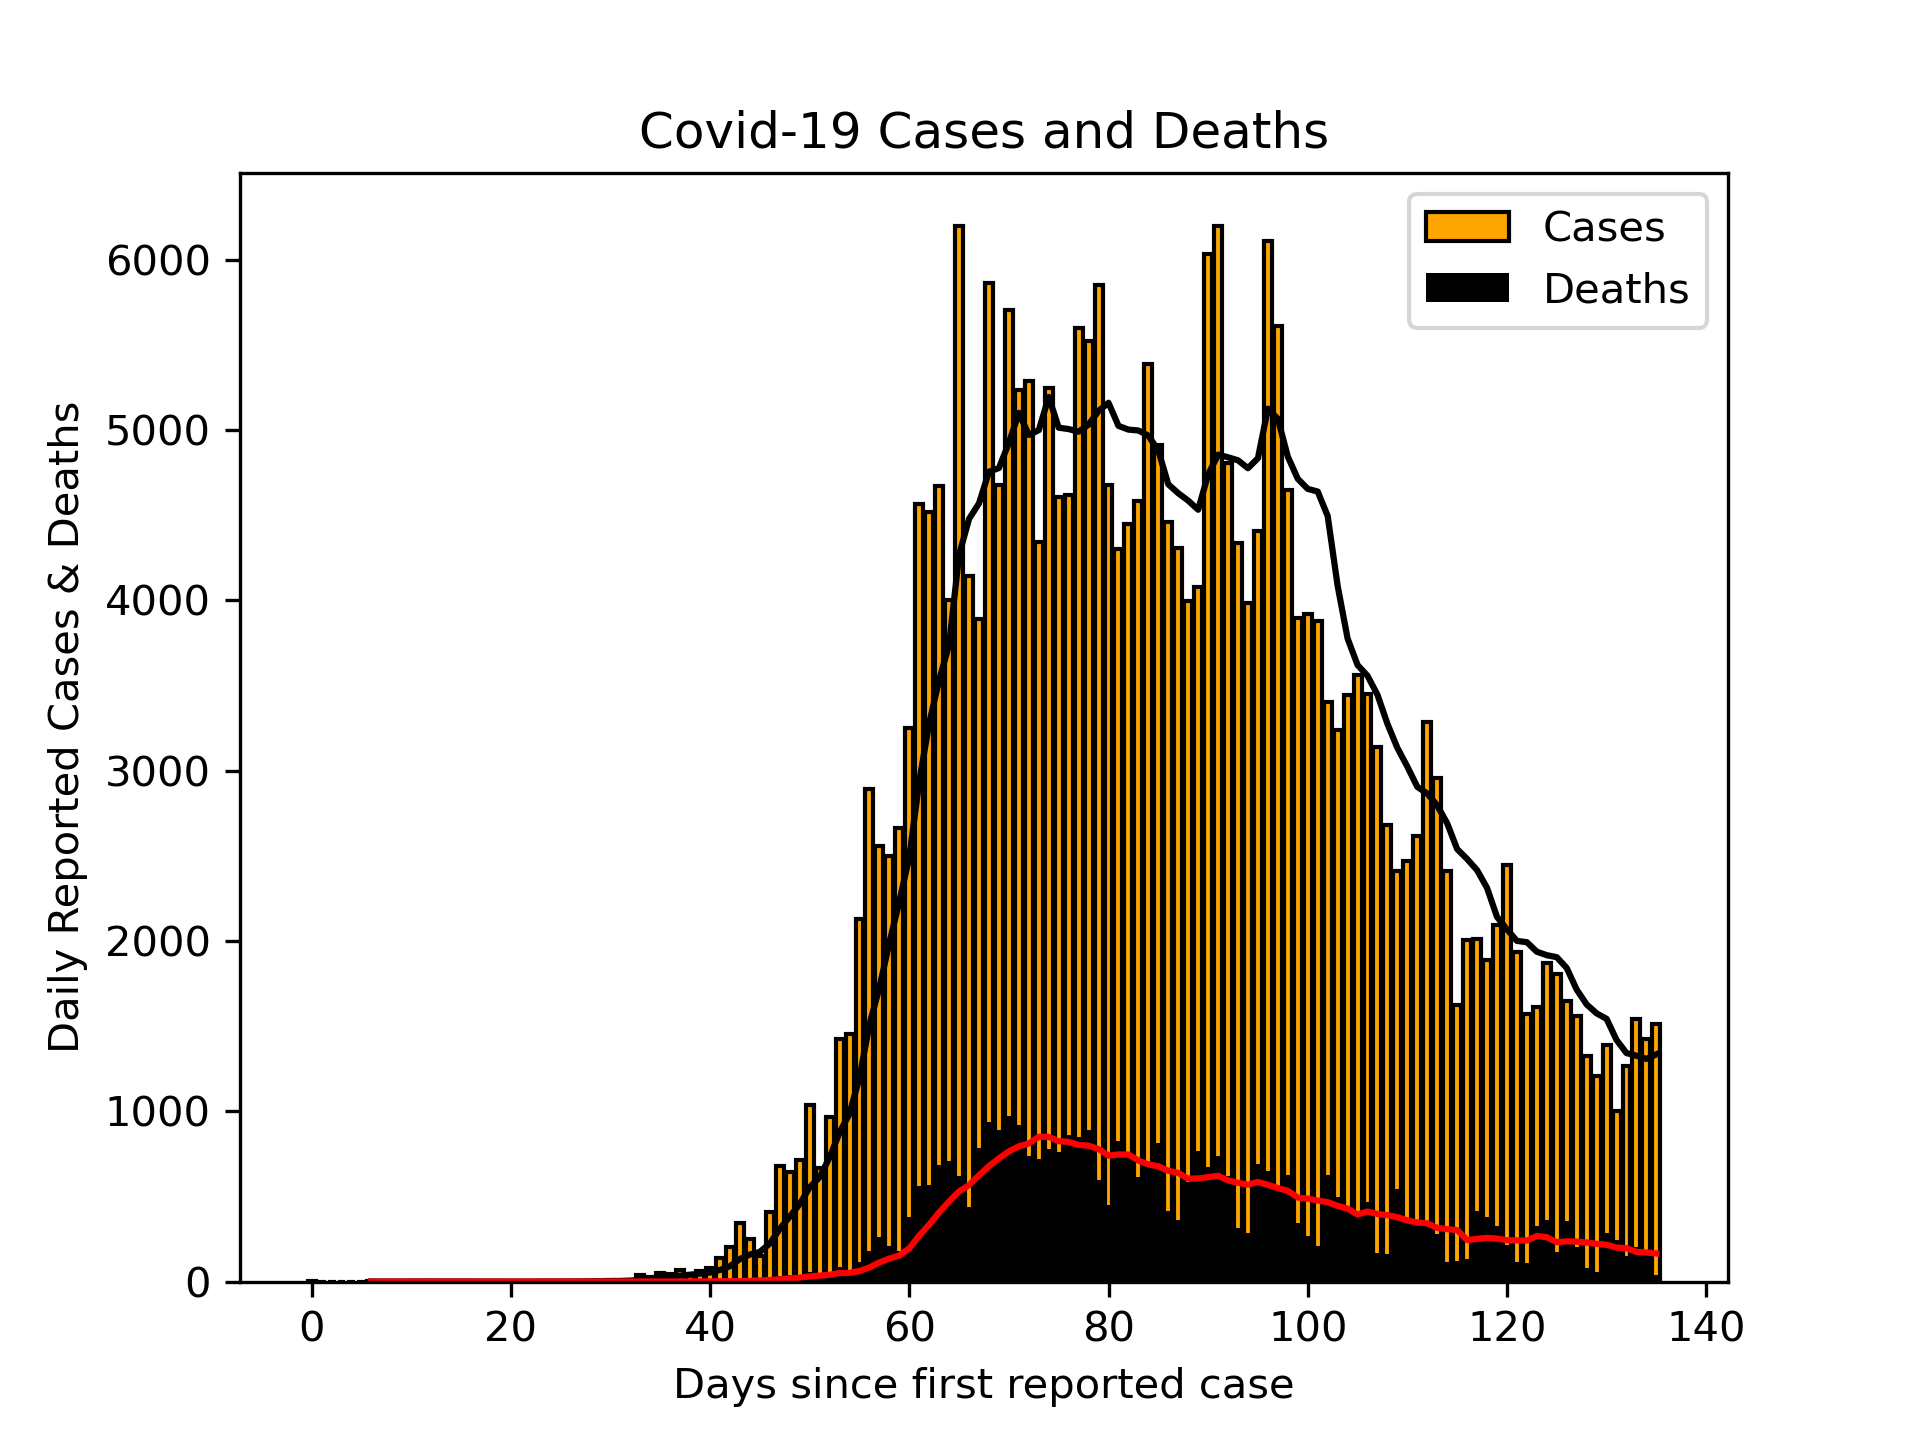
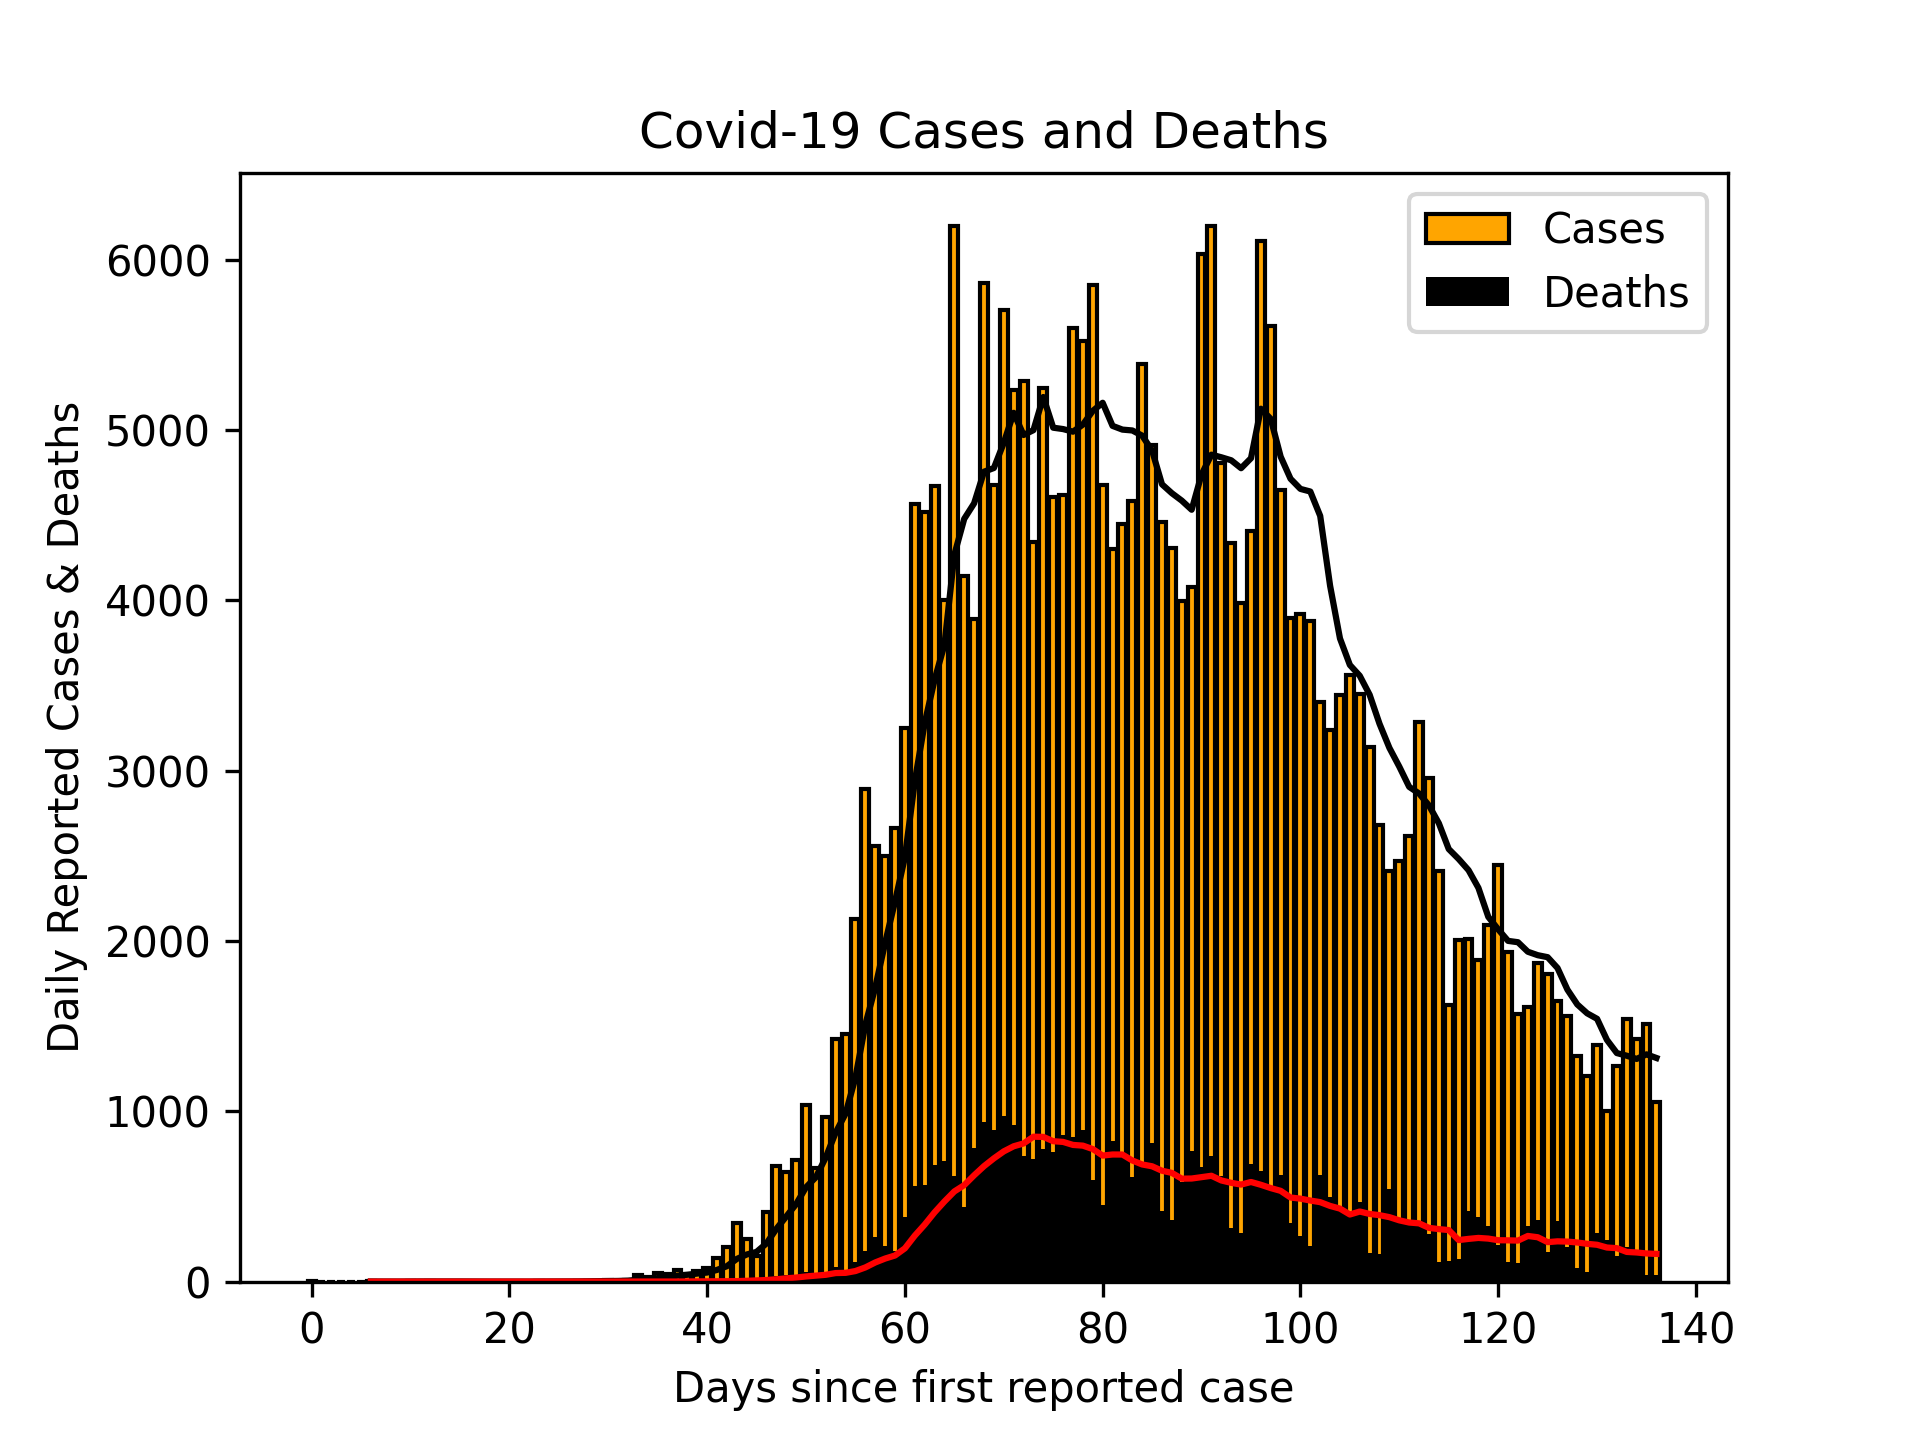
Updated UK cases 15/06/20

diff --git a/README.md b/README.md
@@ -1,5 +1,5 @@
 # Scottish Cases 15/06/20
 ![alt](scottish_cases.png)
 
-# UK Cases 14/06/20
+# UK Cases 15/06/20
 ![alt](uk_cases.png)
